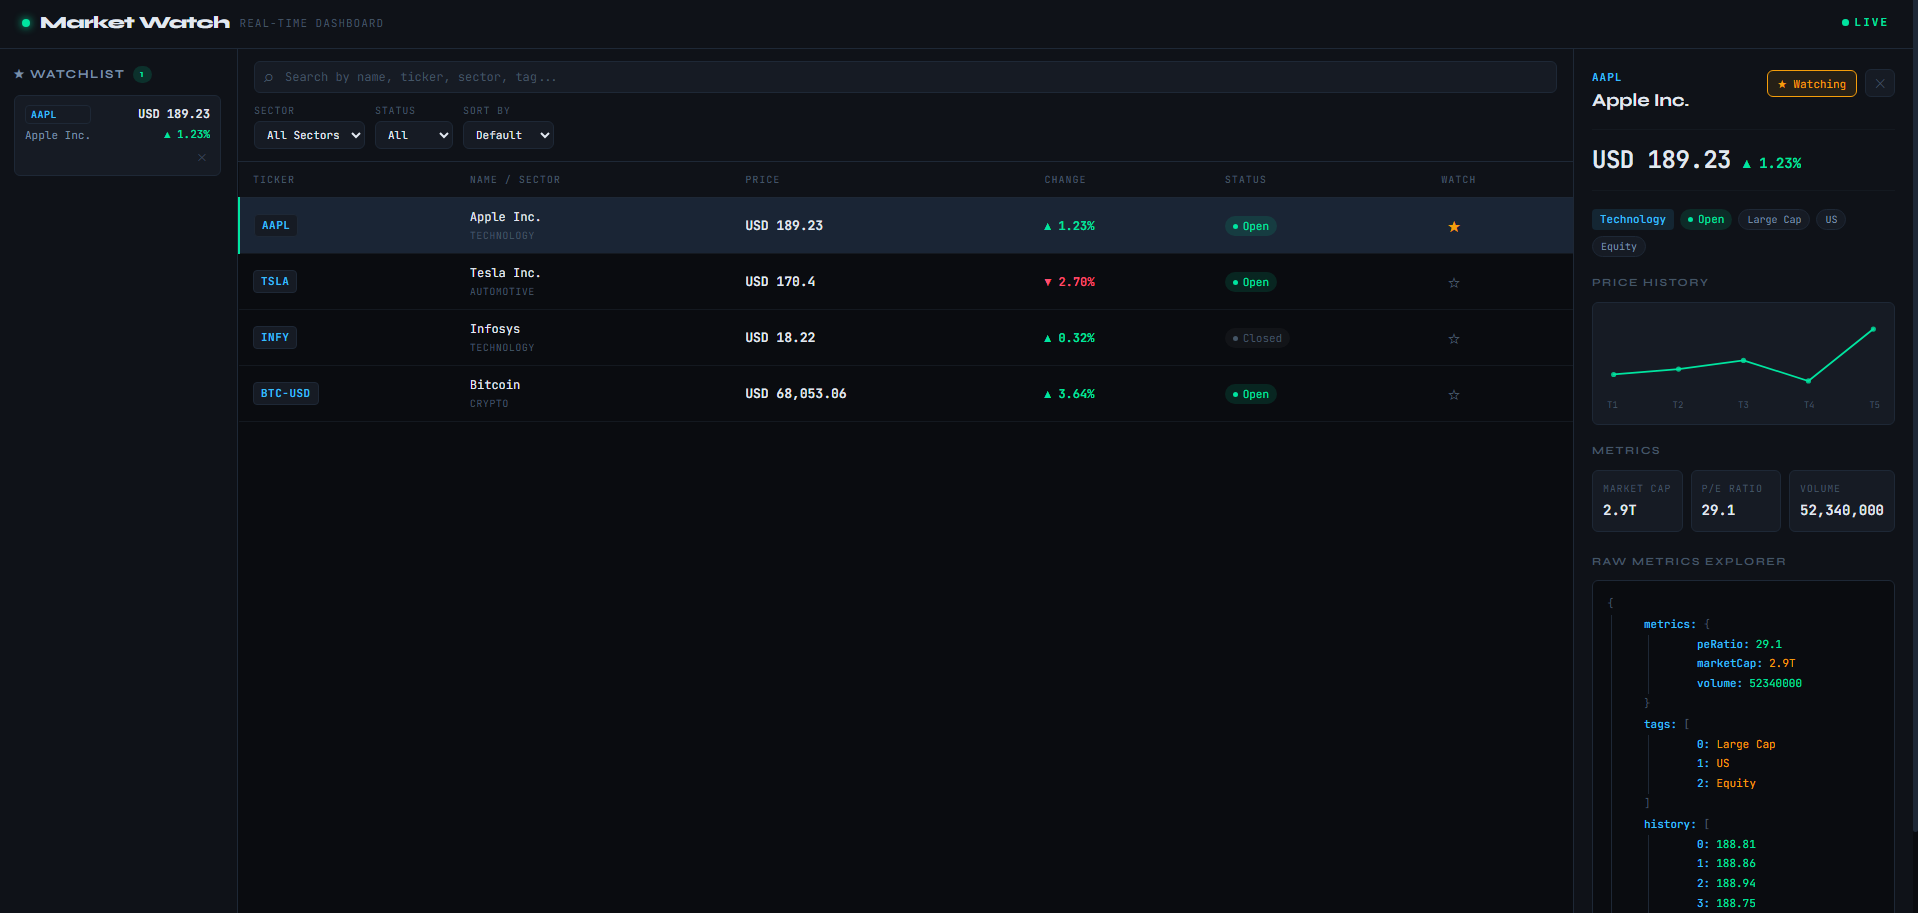
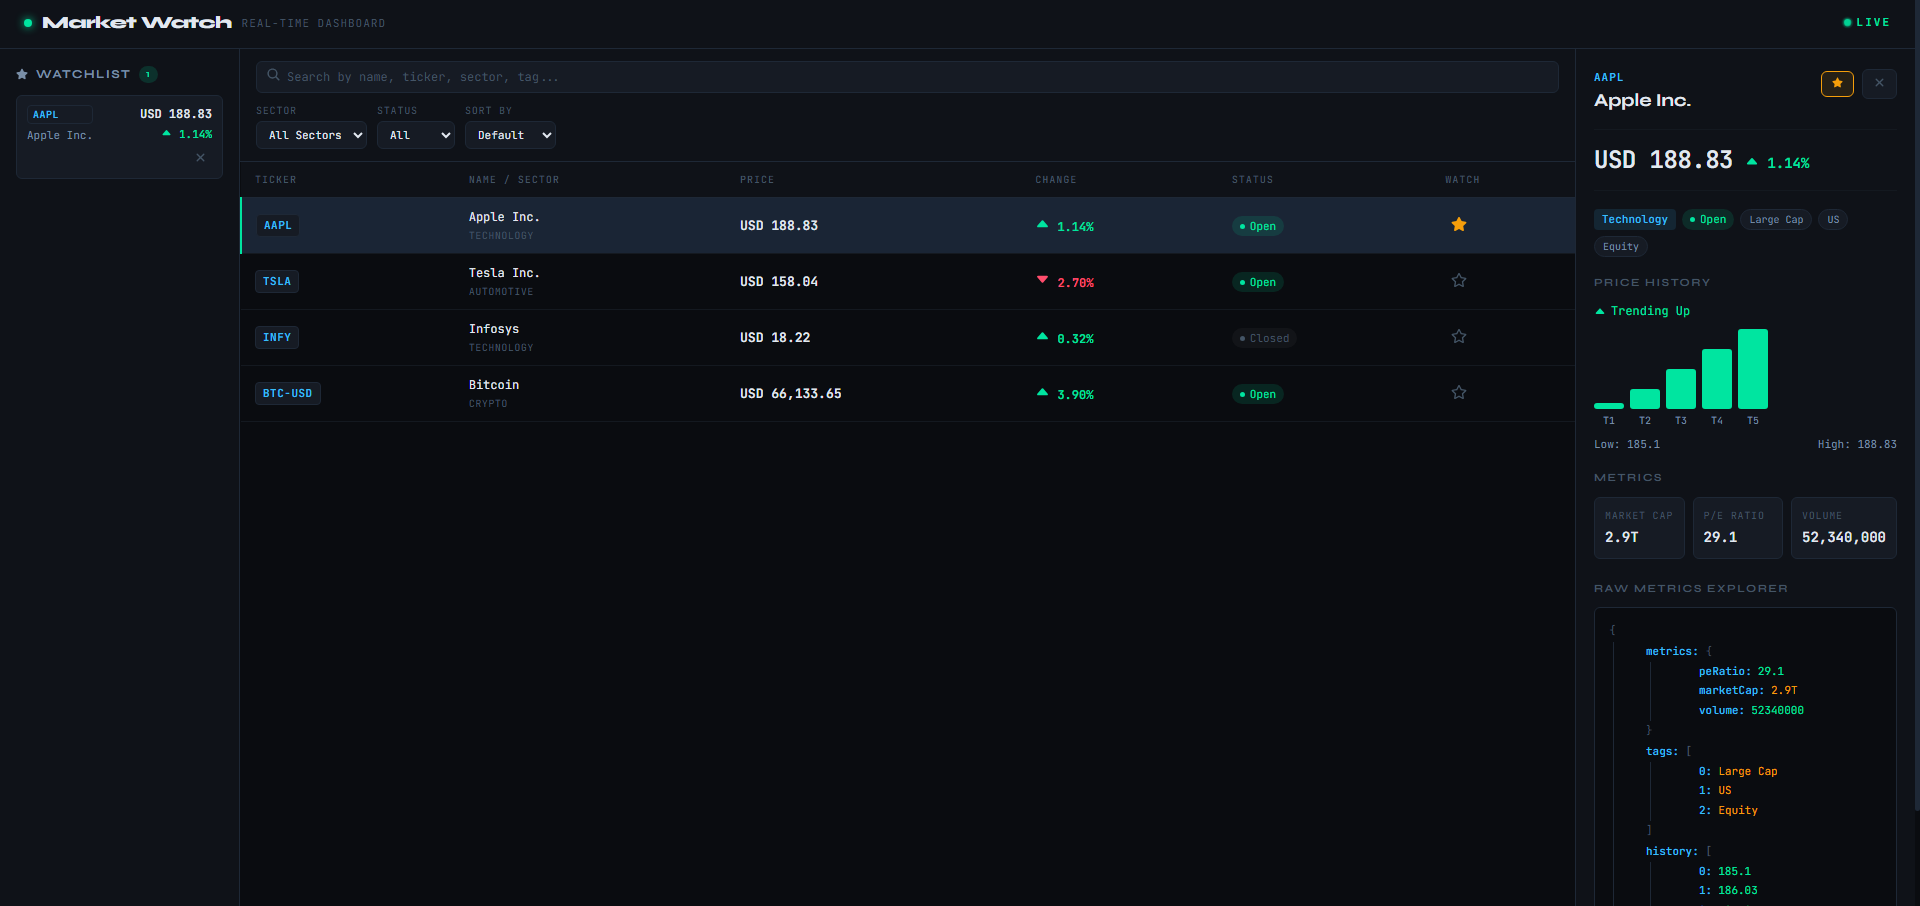
README.md update

diff --git a/README.md b/README.md
@@ -4,7 +4,7 @@ A real-time financial instrument dashboard built with React, TypeScript, and Vit
 
 ## How to Run
 
-git clone <repo-url>
+git clone [<repo-url>](https://github.com/usmanshaikh/market-watch-dashboard)
 cd market-dashboard
 npm install
 npm run dev
@@ -65,6 +65,10 @@ src/
 ├── index.scss                   # Base styles
 └── main.tsx                     # App entry point
 ```
+
+### Screenshot
+
+![App Screenshot](./screenshot.png)
 
 ### State Management
 